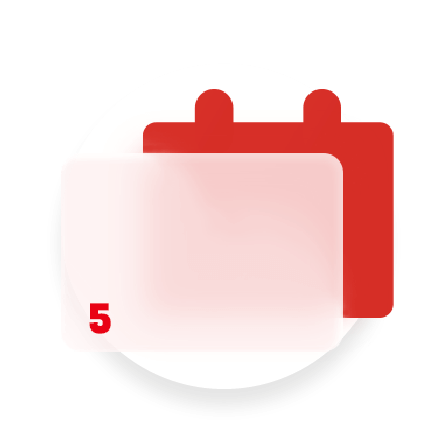
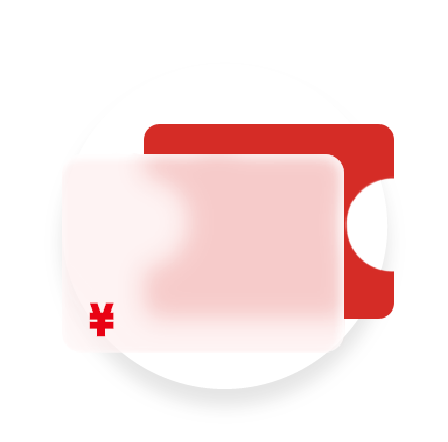
优惠券商家放开

diff --git a/src/pages/merchant/niceTime.vue b/src/pages/merchant/niceTime.vue
@@ -7,11 +7,11 @@
                         :src="parsePic(decodeURIComponent(filterImg(item.pic)[0]))" mode="aspectFill"
                         @click='previewImage(filterImg(item.pic),0,"")' />
                     <view class="niceTimeItem-dot flexCenter">{{imageNums(item.pic)}}</view>
-                    <view class="scoreContainer uni-flex">
+                    <!-- <view class="scoreContainer uni-flex">
                         <image :src="levelItem.levelPic" v-for="(levelItem) in filterLevel(item.rarity)"
                             :class="{A:levelItem.level=='A'}" mode="aspectFill" />
-                        <!-- <image class="A" src="../../static/merchant/A.png" mode="aspectFill" /> -->
-                    </view>
+                        <image class="A" src="../../static/merchant/A.png" mode="aspectFill" />
+                    </view> -->
                 </view>
                 <view class="niceTime-name">
                     {{item.name}}

diff --git a/src/net/DataExchange.ts b/src/net/DataExchange.ts
@@ -2,8 +2,8 @@
 export var indexTabList = {
     tabTop:[
         {img:'../../static/index/v2/top_icon0.gif',text:'全部拼团',url:'/pages/goods/goods_find_list?classType=100'},
-        {img:'../../static/index/v2/top_icon1.png',text:'发售日历',url:'/pages/act/calendar/list'},
-        // {img:'../../static/index/v2/top_icon1.png',text:'领券中心',url:'/pages/userinfo/coupon/coupon_get'},
+        // {img:'../../static/index/v2/top_icon1.png',text:'发售日历',url:'/pages/act/calendar/list'},
+        {img:'../../static/index/v2/top_icon1.png',text:'领券中心',url:'/pages/userinfo/coupon/coupon_get'},
         {img:'../../static/index/v2/top_icon2.png',text:'资讯公告',url:'/pages/information/list'},
         {img:'../../static/index/v2/top_icon3.png',text:'商家列表',url:'/pages/userinfo/merchant_list'}
     ],

diff --git a/src/pages/index/userinfo.vue b/src/pages/index/userinfo.vue
@@ -76,13 +76,6 @@
 					</view>
 					<view class="icon-right"></view>
 				</view>
-				<view class="setting" v-if='broadcastActor' @click="onClickNavigateto({url:'/pages/live/myLive'})">
-					<view class="name">
-						<image class="setting-icon" src="../../static/userinfo/v2/liveCamera.png" />
-						我的直播
-					</view>
-					<view class="icon-right"></view>
-				</view>
 				<view class="setting" v-for="item in settingTab" :key="item.id" @click="onClickNavigateto(item)">
 					<view class="name">
 						<image class="setting-icon" :src="item.pic" />

diff --git a/src/manager/PlatformManager.ts b/src/manager/PlatformManager.ts
@@ -206,7 +206,7 @@ export default class PlatformManager {
 	//跳转商家中心
 	goMerchantPage(alias:string,isMerchant?:boolean){
 		if(!alias) return
-		const TO_NEW_MERCHANT_PAGE=false//是否跳转新商家中心
+		const TO_NEW_MERCHANT_PAGE=true//是否跳转新商家中心
 		const path=TO_NEW_MERCHANT_PAGE?`/pages/merchant/core`:`/pages/userinfo/merchant_shopsV2`
 		uni.navigateTo({
 			url:`${path}?alias=${alias}${isMerchant?'&isMerchant=true':''}`
